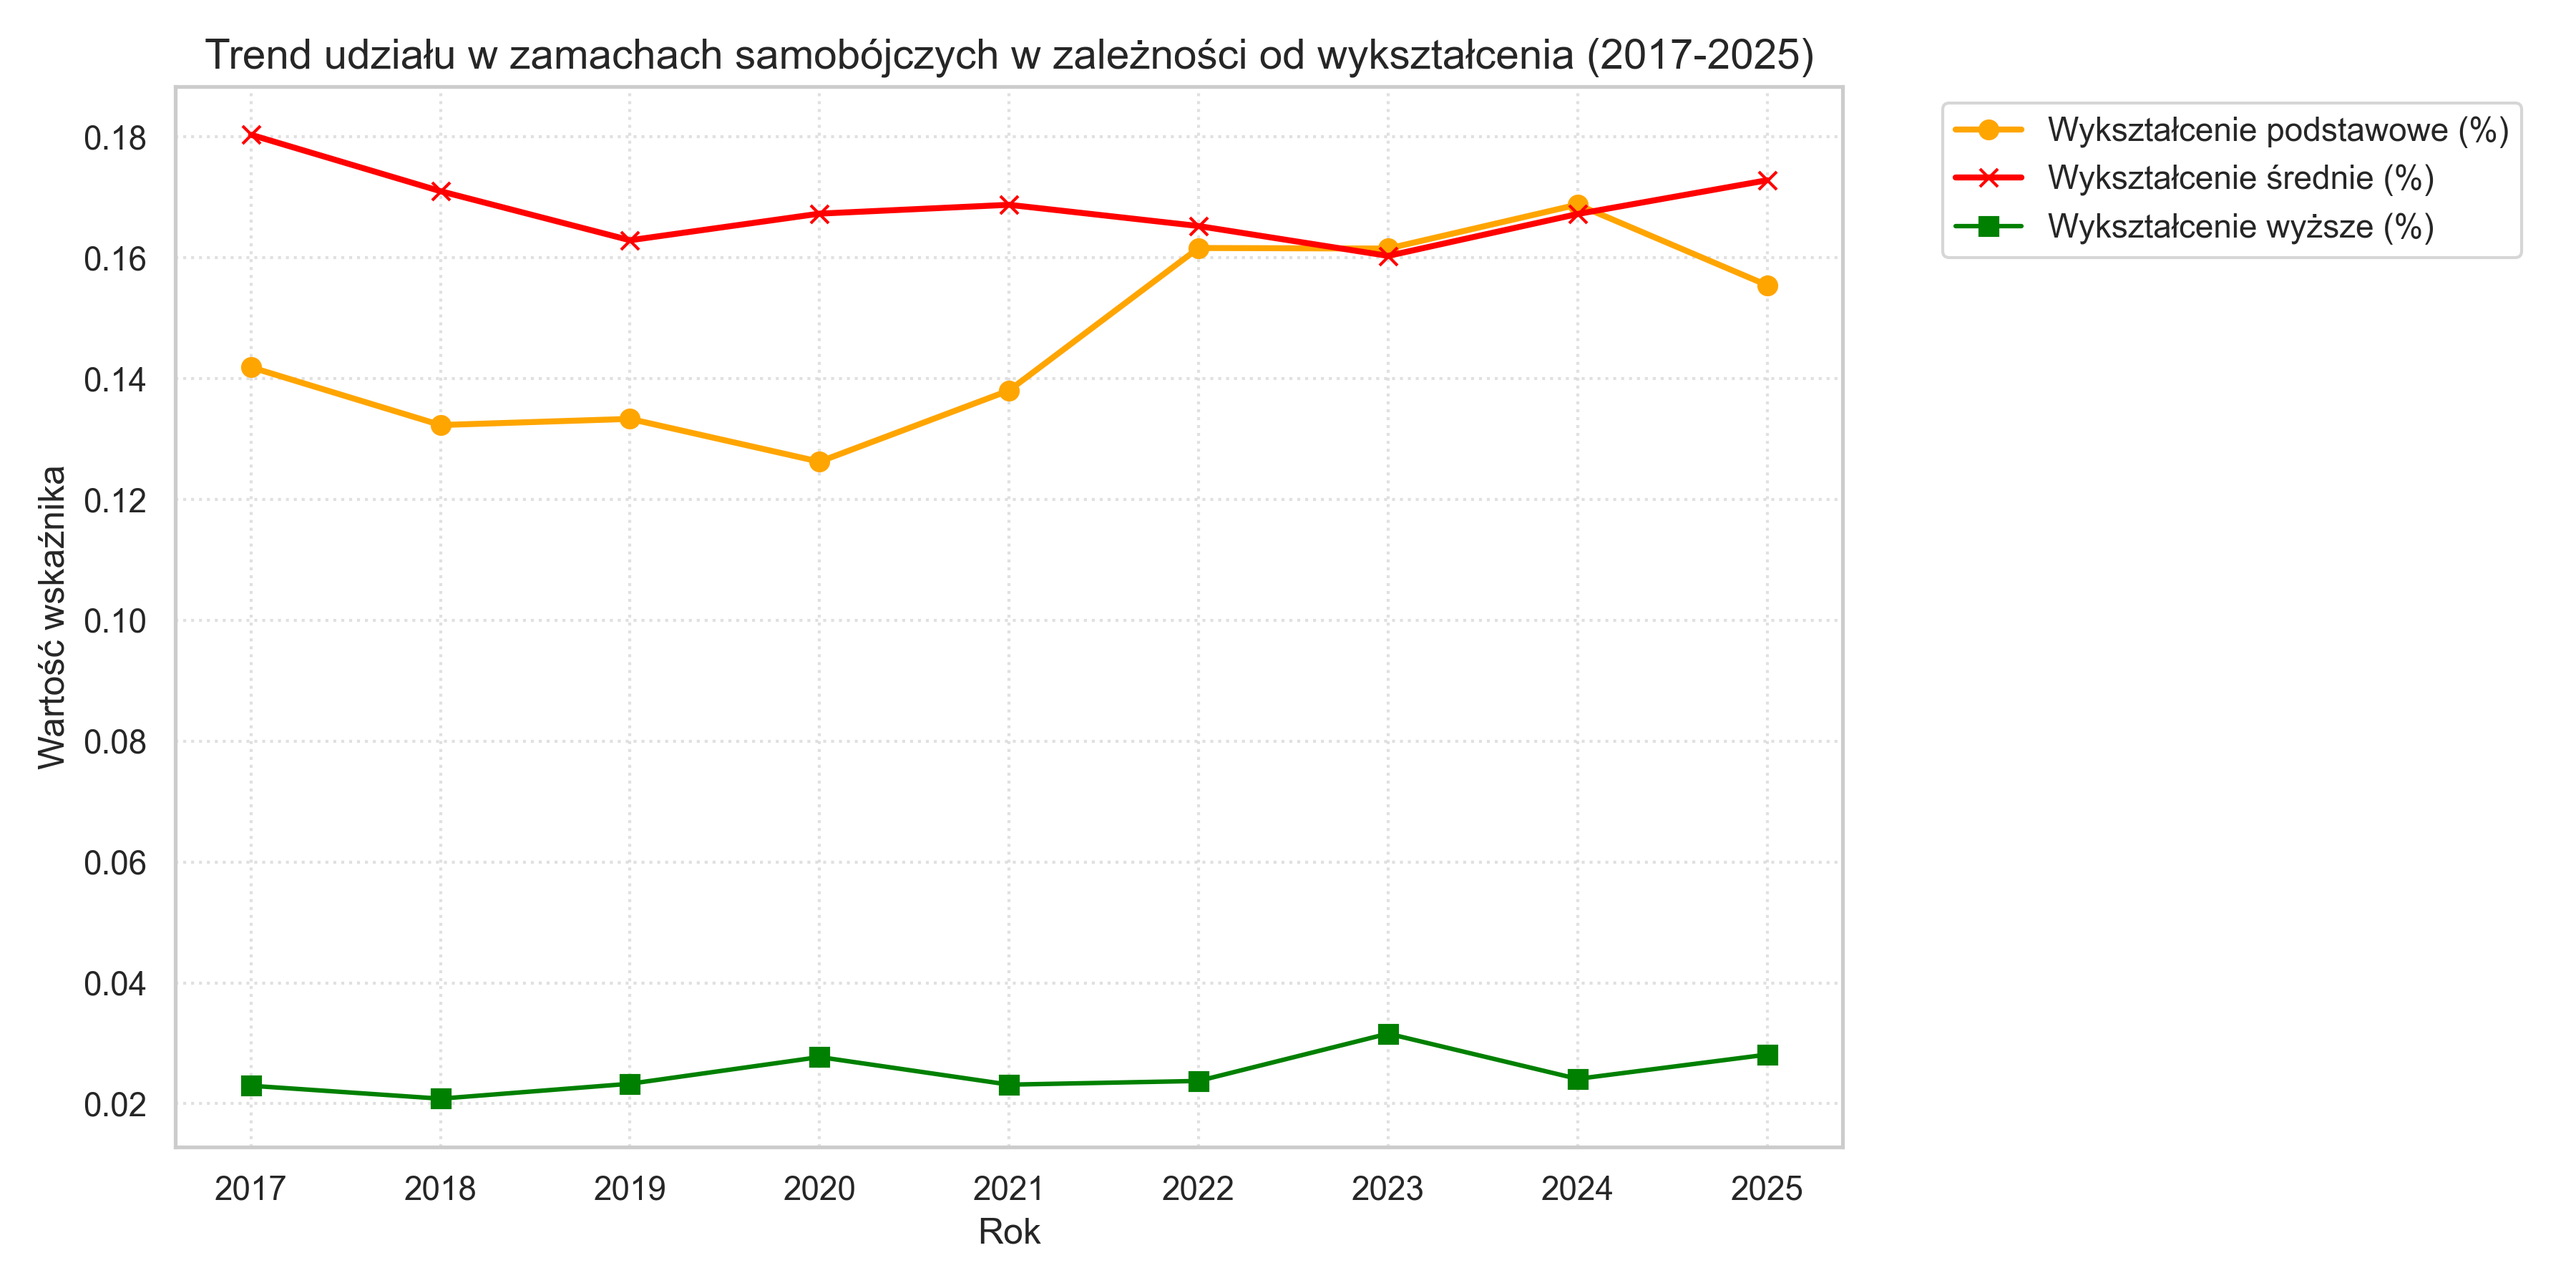
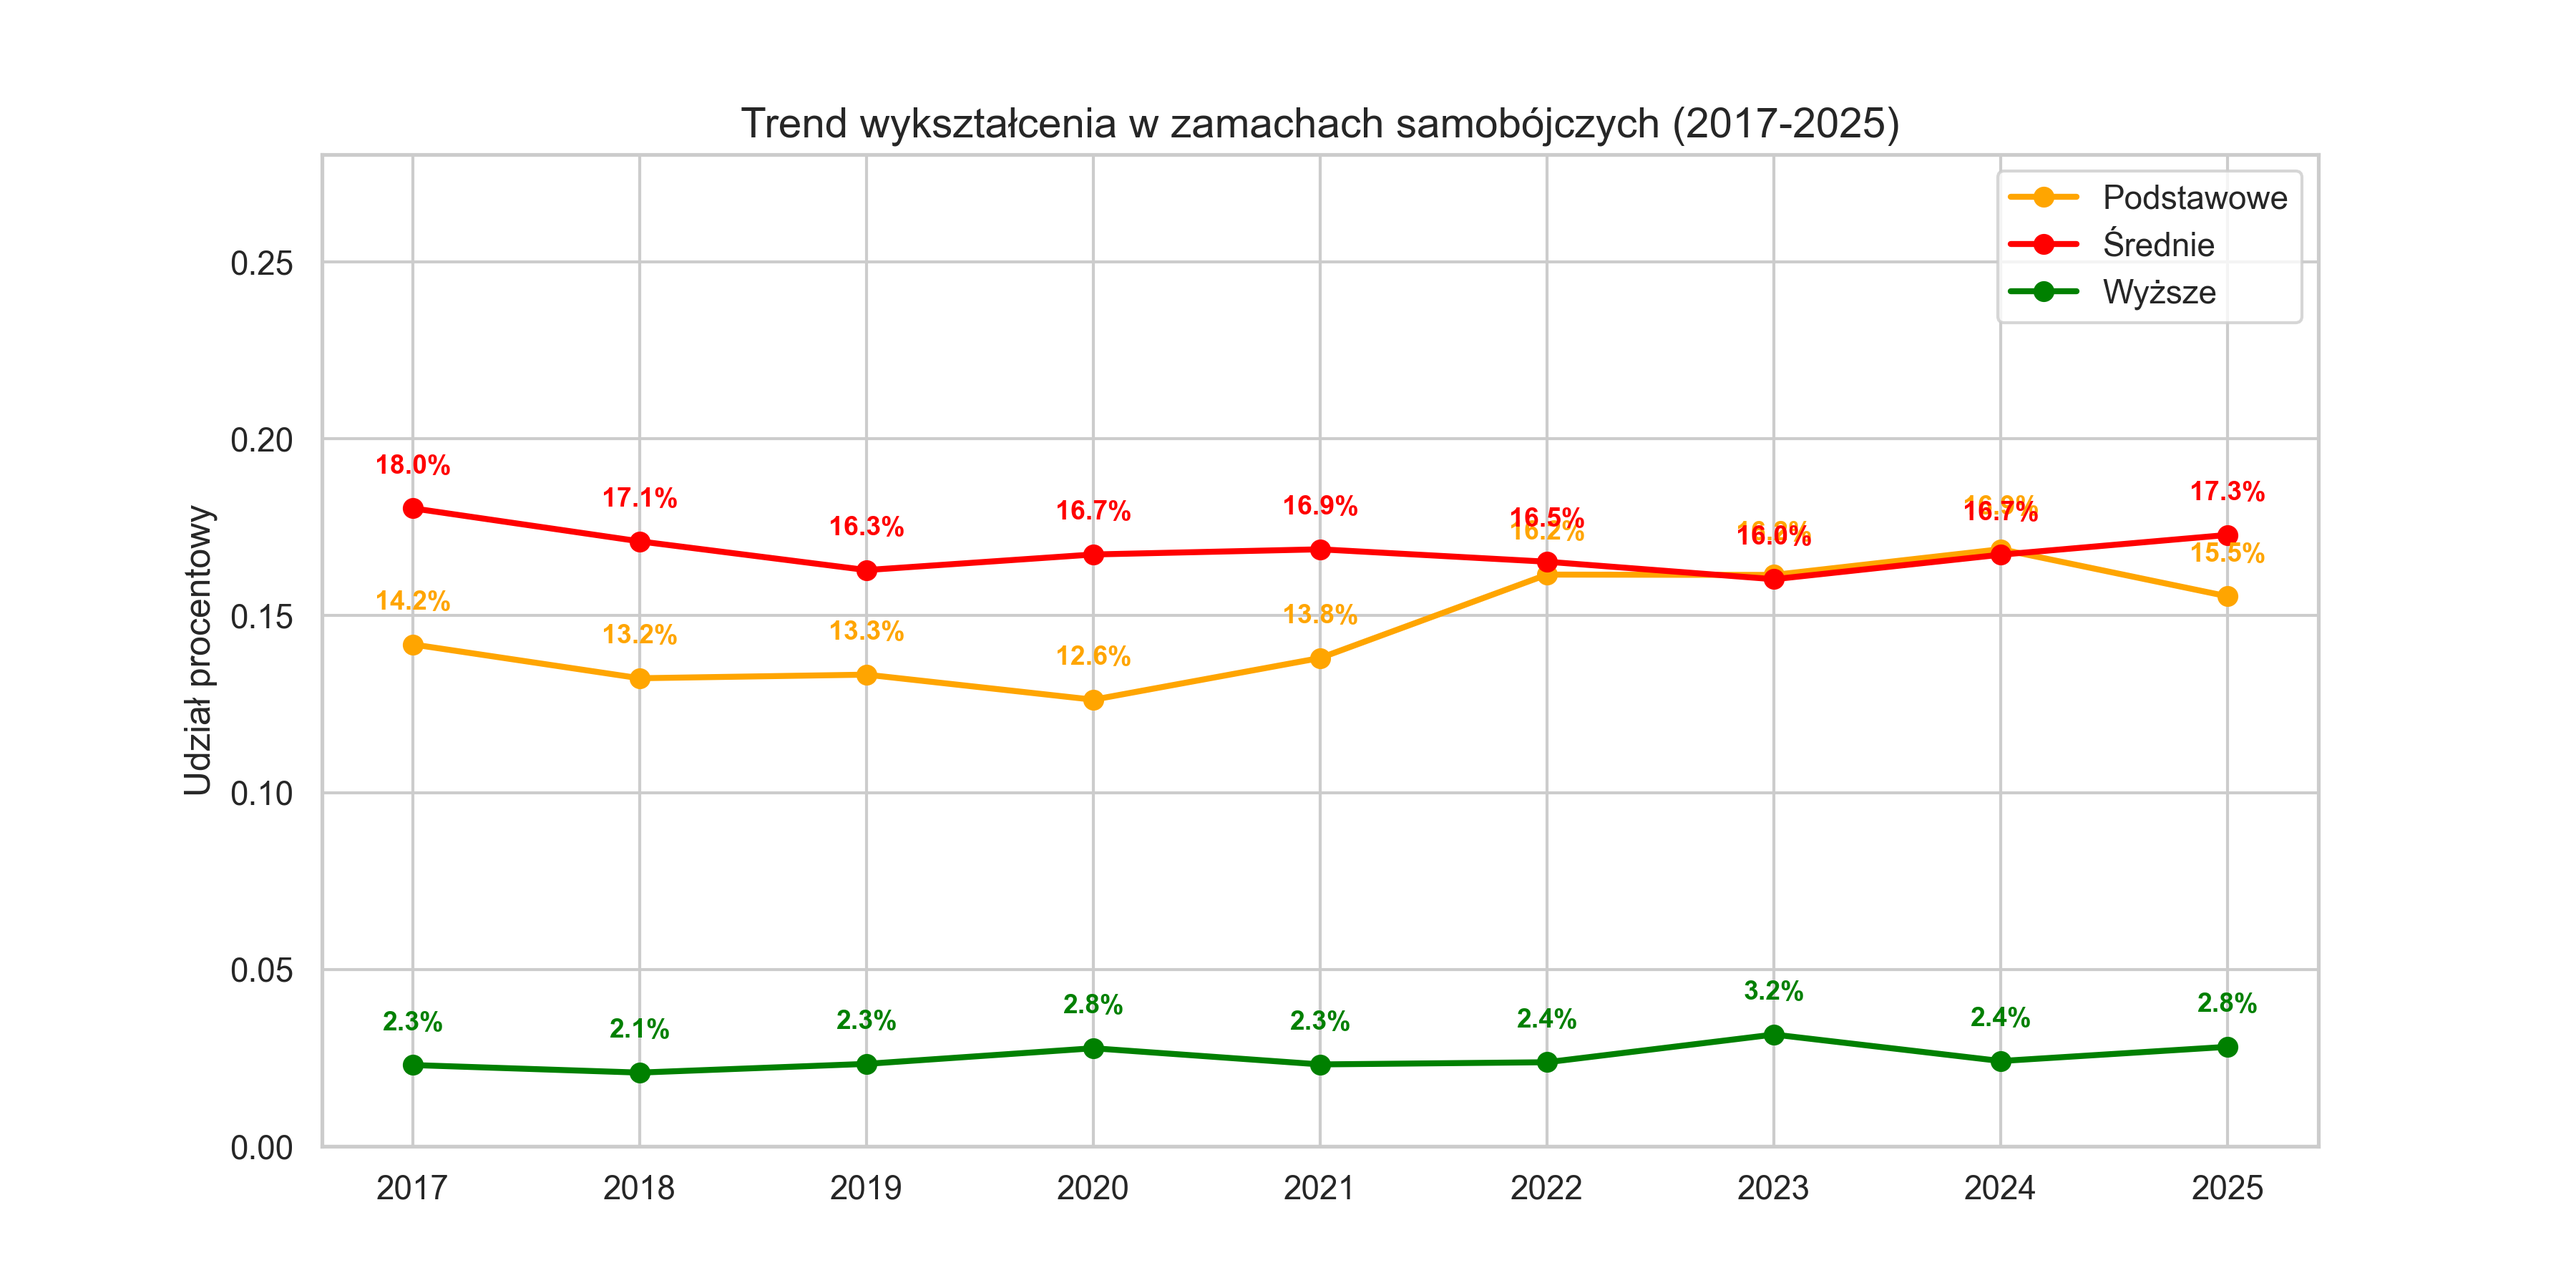
annotated the plot like a responsible adult

diff --git a/code/analysis2.py b/code/analysis2.py
@@ -1,4 +1,5 @@
 import pandas as pd
+import numpy as np
 import matplotlib.pyplot as plt
 import seaborn as sns
 import pickle
@@ -16,52 +17,82 @@ df_annual = df_eda.groupby('Rok').mean(numeric_only=True).reset_index()
 
 sns.set_theme(style="whitegrid")
 
-# --- WYKRES 1: STRUKTURA WIEKU ---
-plt.figure(figsize=(12, 6))
+# --- WYKRES 1: STRUKTURA WIEKU (Stackplot) ---
+plt.figure(figsize=(14, 7))
 age_cols = ['youth_pct', 'young_adult_pct', 'middle_age_pct', 'senior_pct']
-plt.stackplot(df_annual['Rok'], [df_annual[c] for c in age_cols], 
-              labels=['Młodzież', 'Młodzi dorośli', 'Wiek średni', 'Seniorzy'], alpha=0.7)
+labels = ['Młodzież', 'Młodzi dorośli', 'Wiek średni', 'Seniorzy']
+y_values = [df_annual[c] for c in age_cols]
 
-plt.title('Struktura Wieku Osób Podejmujących Zamachy Samobójcze (Średnie roczne)', fontsize=14)
-plt.xlabel('Rok', fontsize=12)
-plt.ylabel('Udział w ogólnej liczbie zamachów', fontsize=12)
+# Rysowanie stackplot
+plt.stackplot(df_annual['Rok'], y_values, labels=labels, alpha=0.7)
+
+# Dodawanie etykiet do środka warstw
+y_stack = np.cumsum(y_values, axis=0)
+for i, col in enumerate(age_cols):
+    for idx, row in df_annual.iterrows():
+        # Obliczanie środka warstwy
+        prev_y = y_stack[i-1][idx] if i > 0 else 0
+        current_y = y_stack[i][idx]
+        mid_y = (prev_y + current_y) / 2
+        val = row[col]
+        if val > 0.03: # Wyświetlaj tylko jeśli udział > 3% (czytelność)
+            plt.text(row['Rok'], mid_y, f'{val:.1%}', ha='center', va='center', fontsize=9, weight='bold')
+
+plt.title('Struktura Wieku Osób Podejmujących Zamachy Samobójcze', fontsize=14)
+plt.ylabel('Udział w ogólnej liczbie', fontsize=12)
 plt.legend(bbox_to_anchor=(1.05, 1), loc='upper left')
-plt.grid(True, linestyle=':', alpha=0.6)
 plt.tight_layout()
 plt.savefig('wykres_demografia.png', dpi=300)
 
 # --- WYKRES 2: EDUKACJA ---
 plt.figure(figsize=(12, 6))
-plt.plot(df_annual['Rok'], df_annual['edu_low_pct'], marker='o', label='Wykształcenie podstawowe (%)', color='orange', linewidth=2)
-plt.plot(df_annual['Rok'], df_annual['edu_mid_pct'], marker='x', label='Wykształcenie średnie (%)', color='red', linewidth=2)
-plt.plot(df_annual['Rok'], df_annual['edu_higher_pct'], marker='s', label='Wykształcenie wyższe (%)', color='green')
-#plt.plot(df_annual['Rok'], df_annual['edu_unknown_pct'], marker='*', label='Wykształcenie - brak danych (%)', color='purple')
+edu_mapping = [
+    ('edu_low_pct', 'Podstawowe', 'orange'),
+    ('edu_mid_pct', 'Średnie', 'red'),
+    ('edu_higher_pct', 'Wyższe', 'green')
+]
 
-plt.title('Trend udziału w zamachach samobójczych w zależności od wykształcenia (2017-2025)', fontsize=14)
-plt.xlabel('Rok', fontsize=12)
-plt.ylabel('Wartość wskaźnika', fontsize=12)
-plt.legend(bbox_to_anchor=(1.05, 1), loc='upper left')
-plt.grid(True, linestyle=':', alpha=0.6)
-plt.tight_layout()
+for col, label, color in edu_mapping:
+    plt.plot(df_annual['Rok'], df_annual[col], marker='o', label=label, color=color, linewidth=2)
+    # Dodawanie etykiet nad punktami
+    for x, y in zip(df_annual['Rok'], df_annual[col]):
+        plt.text(x, y + 0.01, f'{y:.1%}', ha='center', color=color, weight='bold', fontsize=9)
+
+plt.title('Trend wykształcenia w zamachach samobójczych (2017-2025)', fontsize=14)
+plt.ylabel('Udział procentowy', fontsize=12)
+plt.legend(loc='upper right')
+plt.ylim(0, df_annual[['edu_low_pct', 'edu_mid_pct', 'edu_higher_pct']].values.max() + 0.1)
 plt.savefig('wykres_edukacja.png', dpi=300)
 
 
 # --- WYKRES 3: AREA CHART DLA PŁCI
 plt.figure(figsize=(10, 6))
-plt.fill_between(df_annual['Rok'], df_annual['male_pct'], label='Mężczyźni', color='skyblue', alpha=0.6)
-plt.fill_between(df_annual['Rok'], 1 - df_annual['female_pct'], 1, label='Kobiety', color='pink', alpha=0.6)
+plt.fill_between(df_annual['Rok'], 0, df_annual['male_pct'], label='Mężczyźni', color='skyblue', alpha=0.6)
+plt.fill_between(df_annual['Rok'], df_annual['male_pct'], 1, label='Kobiety', color='pink', alpha=0.6)
+
+# Etykiety dla płci (środek obszarów)
+for idx, row in df_annual.iterrows():
+    # Etykieta dla mężczyzn
+    plt.text(row['Rok'], row['male_pct']/2, f'{row["male_pct"]:.1%}', ha='center', va='center', fontsize=9, color='darkblue', weight='bold')
+    # Etykieta dla kobiet
+    plt.text(row['Rok'], (row['male_pct'] + 1)/2, f'{row["female_pct"]:.1%}', ha='center', va='center', fontsize=9, color='darkred', weight='bold')
+
 plt.title('Trend udziału płci w zamachach samobójczych (2017-2025)', fontsize=14)
-plt.ylabel('Udział procentowy', fontsize=12)
-plt.ylim(0, 1)
+plt.ylim(0, 1.05)
 plt.legend(loc='lower left')
 plt.savefig('wykres_plec.png', dpi=300)
 
 # --- WYKRES 4: Trend Śmiertelności ---
 plt.figure(figsize=(10, 6))
-sns.lineplot(data=df_annual, x='Rok', y='target_mortality_rate', marker='o', color='red')
-plt.ylim(0, 1)
-plt.title('Trend Śmiertelności Zamachów Samobójczych w Polsce (Średnia Wojewódzka)')
-plt.ylabel('Skuteczność prób (Zgony / Ogółem)')
+sns.lineplot(data=df_annual, x='Rok', y='target_mortality_rate', marker='o', color='red', linewidth=2.5)
+
+# Dodawanie etykiet śmiertelności
+for x, y in zip(df_annual['Rok'], df_annual['target_mortality_rate']):
+    plt.text(x, y + 0.015, f'{y:.2f}', ha='center', va='bottom', color='red', weight='bold', fontsize=10)
+
+plt.title('Trend Śmiertelności Zamachów Samobójczych (Zgony / Ogółem)', fontsize=14)
+plt.ylabel('Skuteczność prób', fontsize=12)
+plt.tight_layout()
 plt.savefig('wykres_smiertelnosc_srednia.png', dpi=300)
 
 
